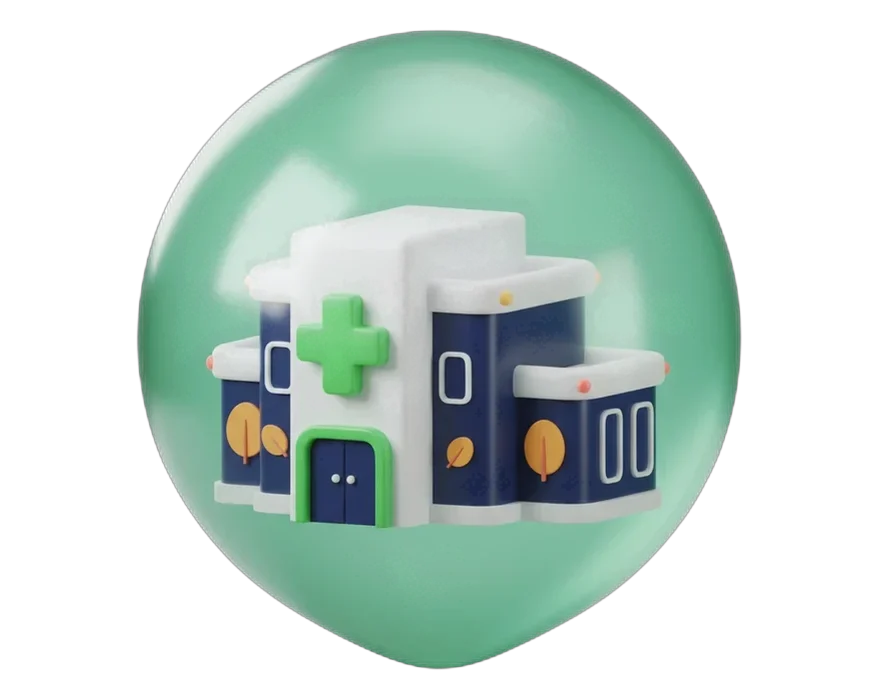
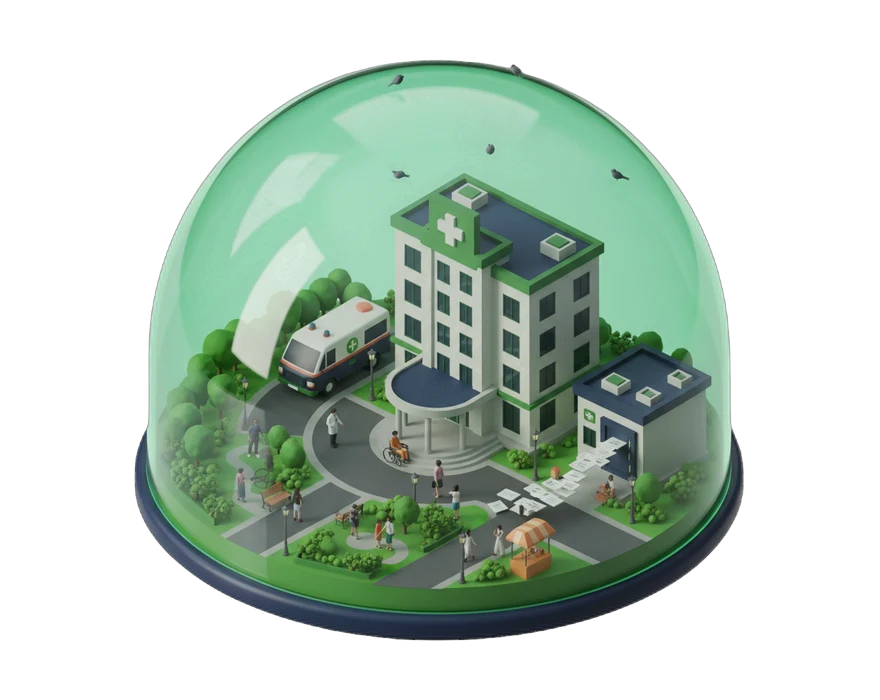
feat: richer hospital-campus diorama for hospitals section; hero diorama sized up to 760px

diff --git a/src/styles/grass.css b/src/styles/grass.css
@@ -742,7 +742,7 @@ html.js .g-rv.g-d4 { transition-delay: .24s; }
   transform: rotateX(calc(var(--ty, 0) * -6deg)) rotateY(calc(var(--tx, 0) * 8deg));
   transition: transform .25s ease-out; transform-style: preserve-3d; will-change: transform;
 }
-.g-h3d-world > img { width: 100%; max-width: 620px; height: auto; margin: 0 auto; display: block; }
+.g-h3d-world > img { width: 100%; max-width: 760px; height: auto; margin: 0 auto; display: block; }
 .g-h3d-obj {
   position: absolute; pointer-events: none;
   transform:
